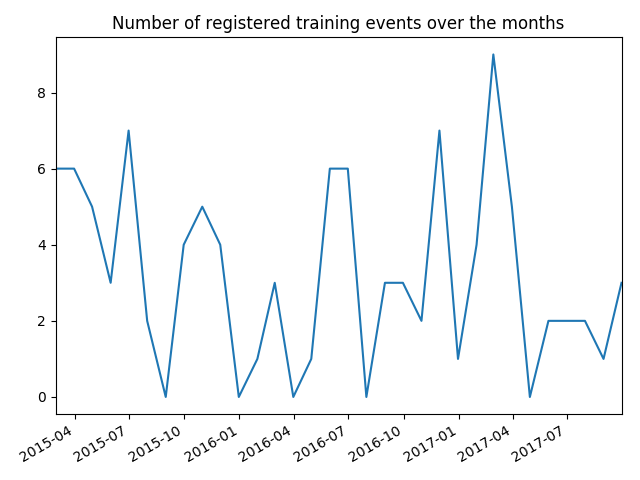
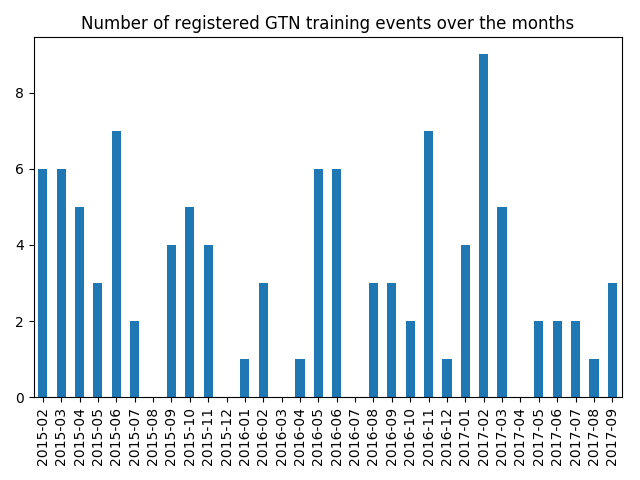
Generate gtn event bar chart instead of line

Changed region(s): [[0.0312, 0.0938, 0.9688, 0.9688], [0.125, 0.0312, 0.9062, 0.0625], [0.0312, 0.1875, 0.0938, 0.2188]]

diff --git a/src/extract_hub_info.py b/src/extract_hub_info.py
@@ -110,8 +110,6 @@ def extract_archived_event_info(file_content):
     '''
     Extract the useful event information for the archived events
     '''
-    #tree = html.fromstring(file_content)
-    #print(tree)
     file_content = file_content.decode("utf-8")
     # find the first year line
     year_pos = [m.start() for m in re.finditer('## ', file_content)]
@@ -316,8 +314,12 @@ rule plot_gtn_events:
         # plot the number of events per month
         fig = plt.plot()
         ax = grouped_date.date.plot(
-            x_compat=True,
-            title='Number of registered training events over the months')
+            kind='bar',
+            title='Number of registered GTN training events over the months')
         ax.set_xlabel('')
+        #ax.xaxis_date()
+        xtl=[item.get_text()[:7] for item in ax.get_xticklabels()]
+        ax.set_xticklabels(xtl)
+
         plt.tight_layout()
         plt.savefig(str(output.gtn_event_graph))
